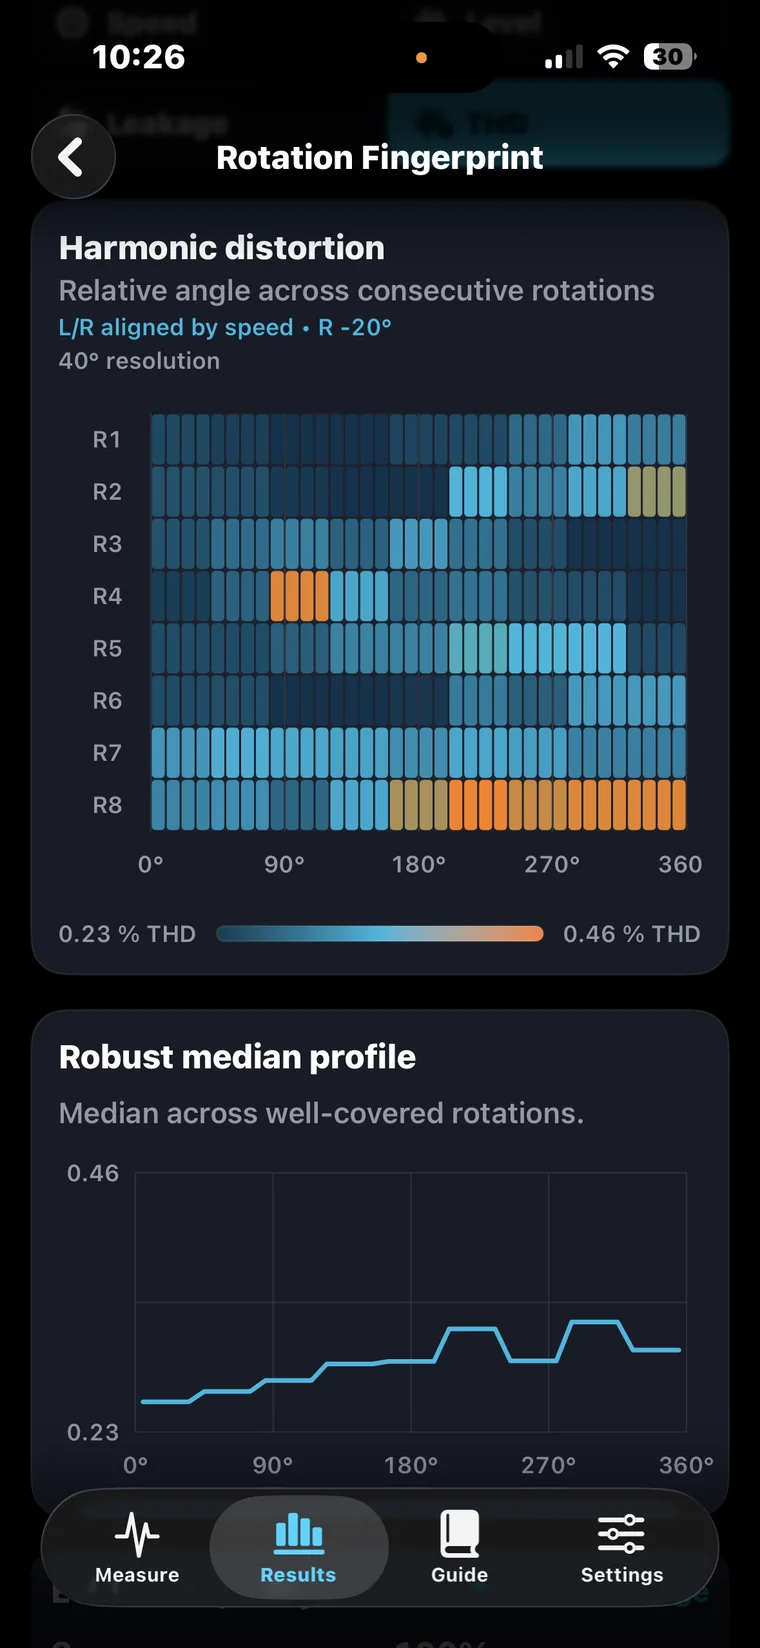
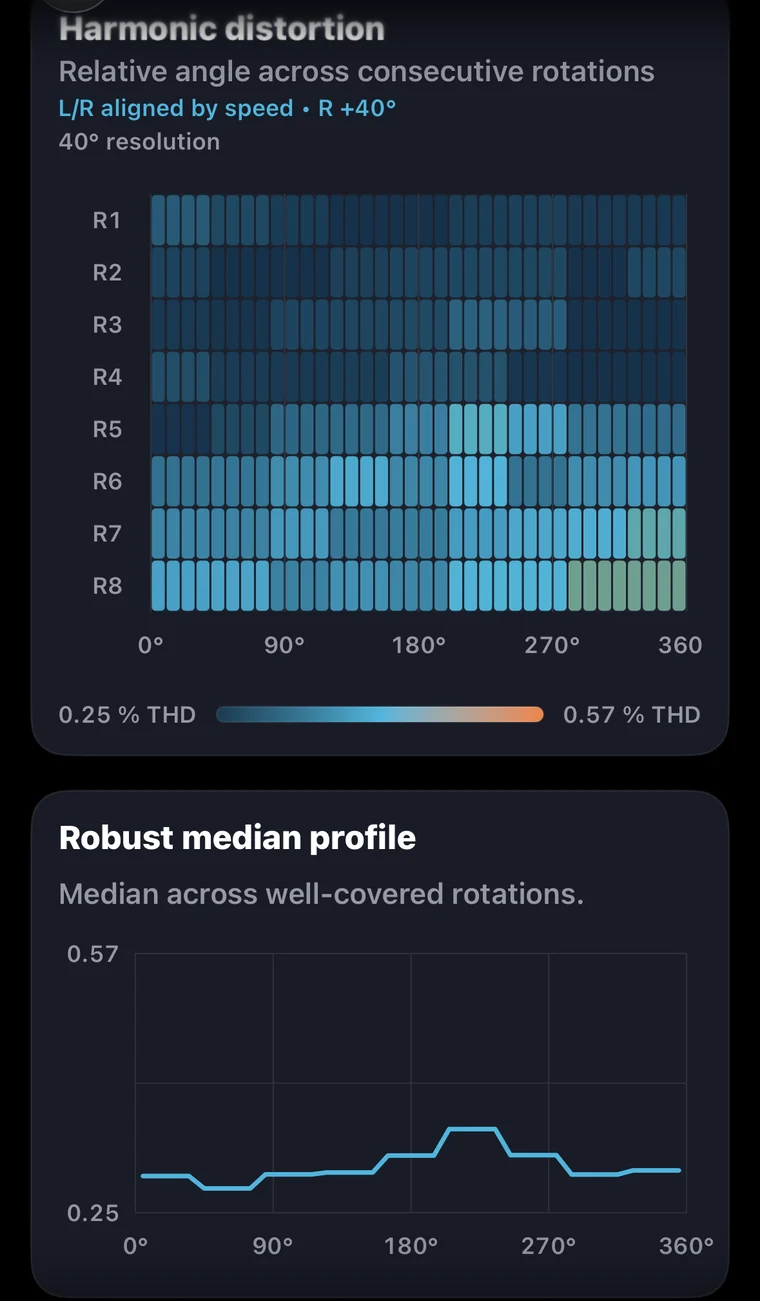
Replace harmonic distortion fingerprints

diff --git a/docs/groove-scope/measurements/GS-2026-0003.html b/docs/groove-scope/measurements/GS-2026-0003.html
@@ -87,7 +87,7 @@
         <div class="fingerprint-grid" aria-label="Rotation fingerprint cards">
           <article class="fingerprint-card" data-fingerprint-card>
             <div class="fingerprint-card-header"><h3>Harmonic distortion</h3><div class="channel-toggle" aria-label="Harmonic distortion channel"><button type="button" data-channel="left" aria-pressed="true">L</button><button type="button" data-channel="right" aria-pressed="false">R</button></div></div>
-            <div class="fingerprint-media"><img class="profile-image" data-fingerprint-image src="../assets/GS-2026-0003/web/harmonic-distortion-left-760.webp" data-source-left="../assets/GS-2026-0003/web/harmonic-distortion-left-760.webp" data-source-right="../assets/GS-2026-0003/web/harmonic-distortion-right-760.webp" data-alt-left="Left-channel harmonic-distortion rotation fingerprint and robust median profile." data-alt-right="Right-channel harmonic-distortion rotation fingerprint and robust median profile." width="760" height="1648" loading="lazy" decoding="async" alt="Left-channel harmonic-distortion rotation fingerprint and robust median profile."></div>
+            <div class="fingerprint-media"><img class="profile-image" data-fingerprint-image src="../assets/GS-2026-0003/web/harmonic-distortion-left-760.webp" data-source-left="../assets/GS-2026-0003/web/harmonic-distortion-left-760.webp" data-source-right="../assets/GS-2026-0003/web/harmonic-distortion-right-760.webp" data-alt-left="Left-channel harmonic-distortion rotation fingerprint and robust median profile." data-alt-right="Right-channel harmonic-distortion rotation fingerprint and robust median profile." width="760" height="1301" loading="lazy" decoding="async" alt="Left-channel harmonic-distortion rotation fingerprint and robust median profile."></div>
             <p class="visually-hidden" aria-live="polite" data-channel-status>Left channel selected</p>
           </article>
           <article class="fingerprint-card" data-fingerprint-card>
